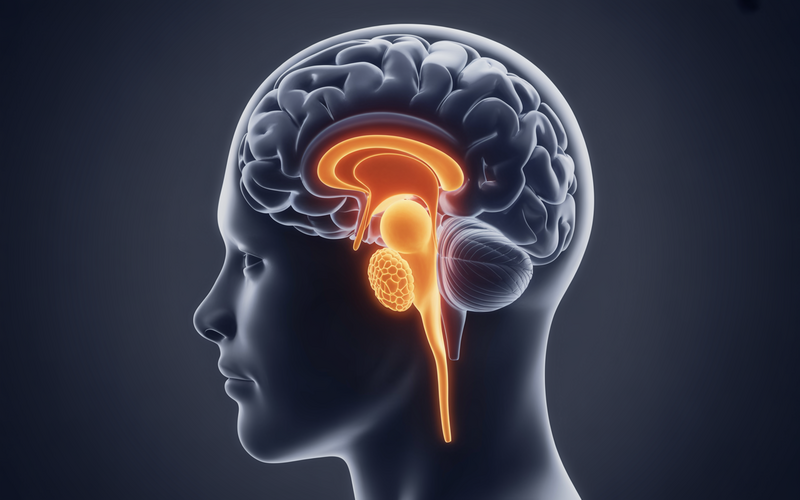
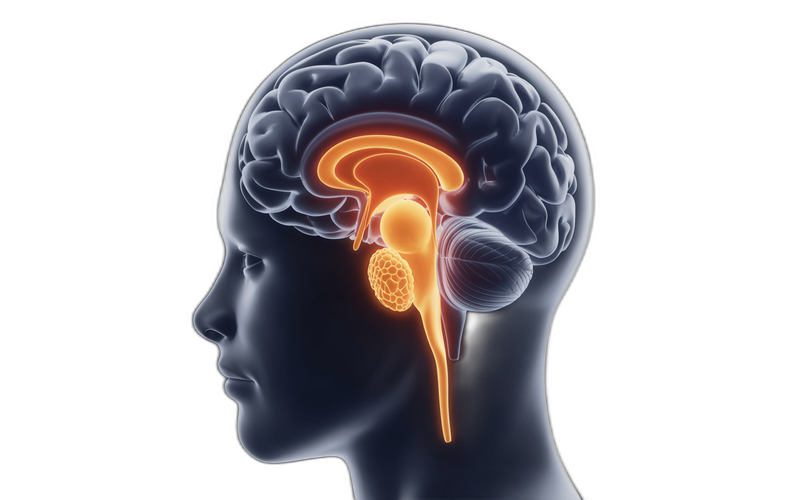
fix(hpg-axis): AI background removal (rembg), text shadows for contrast
- Use rembg AI to properly remove backgrounds from all 4 atlas PNGs
  (truly transparent RGBA, no grey halos or dark rectangles)
- Remove mixBlendMode hack (no longer needed)
- Add SVG feDropShadow filter on all text labels for guaranteed
  contrast against any background
- Brighten muted text color #94a3b8 → #cbd5e1 for readability

diff --git a/app/cdss/hpg-axis-3d.tsx b/app/cdss/hpg-axis-3d.tsx
@@ -157,7 +157,7 @@ export function mergeAxisStates(states: AxisState[]): AxisState {
 
 const PALETTE = {
   text: '#e2e8f0',
-  textMuted: '#94a3b8',
+  textMuted: '#cbd5e1',
   textTitle: '#f8fafc',
   accent: '#60a5fa',
   normal: '#22c55e',
@@ -865,7 +865,7 @@ export default function HPGAxis3D({ state }: { state: AxisState }) {
         preserveAspectRatio="xMidYMid meet"
         style={{ width: '100%', height: '100%', display: 'block' }}
       >
-        {/* — Faint atlas grid + vignette — */}
+        {/* — Faint atlas grid + vignette + text shadow filter — */}
         <defs>
           <pattern
             id="atlas-grid"
@@ -887,6 +887,10 @@ export default function HPGAxis3D({ state }: { state: AxisState }) {
             <stop offset="0%" stopColor="#0f172a" stopOpacity="0" />
             <stop offset="100%" stopColor="#020617" stopOpacity="0.7" />
           </radialGradient>
+          {/* Dark halo behind text for contrast against any background */}
+          <filter id="text-shadow" x="-15%" y="-15%" width="130%" height="130%">
+            <feDropShadow dx="0" dy="0" stdDeviation="3" floodColor="#020617" floodOpacity="0.9" />
+          </filter>
         </defs>
         <rect x="0" y="0" width={VB_W} height={VB_H} fill="url(#atlas-grid)" />
         <rect x="0" y="0" width={VB_W} height={VB_H} fill="url(#vignette)" />
@@ -903,7 +907,7 @@ export default function HPGAxis3D({ state }: { state: AxisState }) {
           height={BRAIN.h}
           preserveAspectRatio="xMidYMid meet"
           opacity={state.hypothalamus === 'faded' ? 0.55 : 0.95}
-          style={{ mixBlendMode: 'screen' }}
+          
         />
 
         {/* Abnormal-state glow over the hypothalamus */}
@@ -947,7 +951,7 @@ export default function HPGAxis3D({ state }: { state: AxisState }) {
         />
 
         {/* Label */}
-        <g pointerEvents="none" fontFamily="system-ui, sans-serif">
+        <g pointerEvents="none" fontFamily="system-ui, sans-serif" filter="url(#text-shadow)">
           <text
             x={BRAIN.x + BRAIN.w / 2}
             y={BRAIN.y + BRAIN.h + 16}
@@ -1008,7 +1012,7 @@ export default function HPGAxis3D({ state }: { state: AxisState }) {
           height={PIT.h}
           preserveAspectRatio="xMidYMid meet"
           opacity={state.pituitary === 'faded' ? 0.55 : 0.95}
-          style={{ mixBlendMode: 'screen' }}
+          
         />
 
         {/* Abnormal glow — anterior lobe (FSH/LH source) */}
@@ -1071,7 +1075,7 @@ export default function HPGAxis3D({ state }: { state: AxisState }) {
         />
 
         {/* Labels */}
-        <g pointerEvents="none" fontFamily="system-ui, sans-serif">
+        <g pointerEvents="none" fontFamily="system-ui, sans-serif" filter="url(#text-shadow)">
           <text
             x={PIT.x + PIT.w / 2}
             y={PIT.y - 8}
@@ -1183,7 +1187,7 @@ export default function HPGAxis3D({ state }: { state: AxisState }) {
           height={TES.h}
           preserveAspectRatio="xMidYMid meet"
           opacity={state.testis === 'faded' ? 0.55 : 0.97}
-          style={{ mixBlendMode: 'screen' }}
+          
         />
 
         {/* Abnormal-state glows */}
@@ -1271,7 +1275,7 @@ export default function HPGAxis3D({ state }: { state: AxisState }) {
         />
 
         {/* Labels */}
-        <g pointerEvents="none" fontFamily="system-ui, sans-serif">
+        <g pointerEvents="none" fontFamily="system-ui, sans-serif" filter="url(#text-shadow)">
           <text
             x={tubulesRegion.cx}
             y={tubulesRegion.cy + tubulesRegion.ry + 16}
@@ -1302,6 +1306,7 @@ export default function HPGAxis3D({ state }: { state: AxisState }) {
           fontSize={11}
           fontWeight={700}
           fontFamily="system-ui, sans-serif"
+          filter="url(#text-shadow)"
         >
           {state.testis === 'atrophic'
             ? 'Testis — Atrophic Parenchyma'
